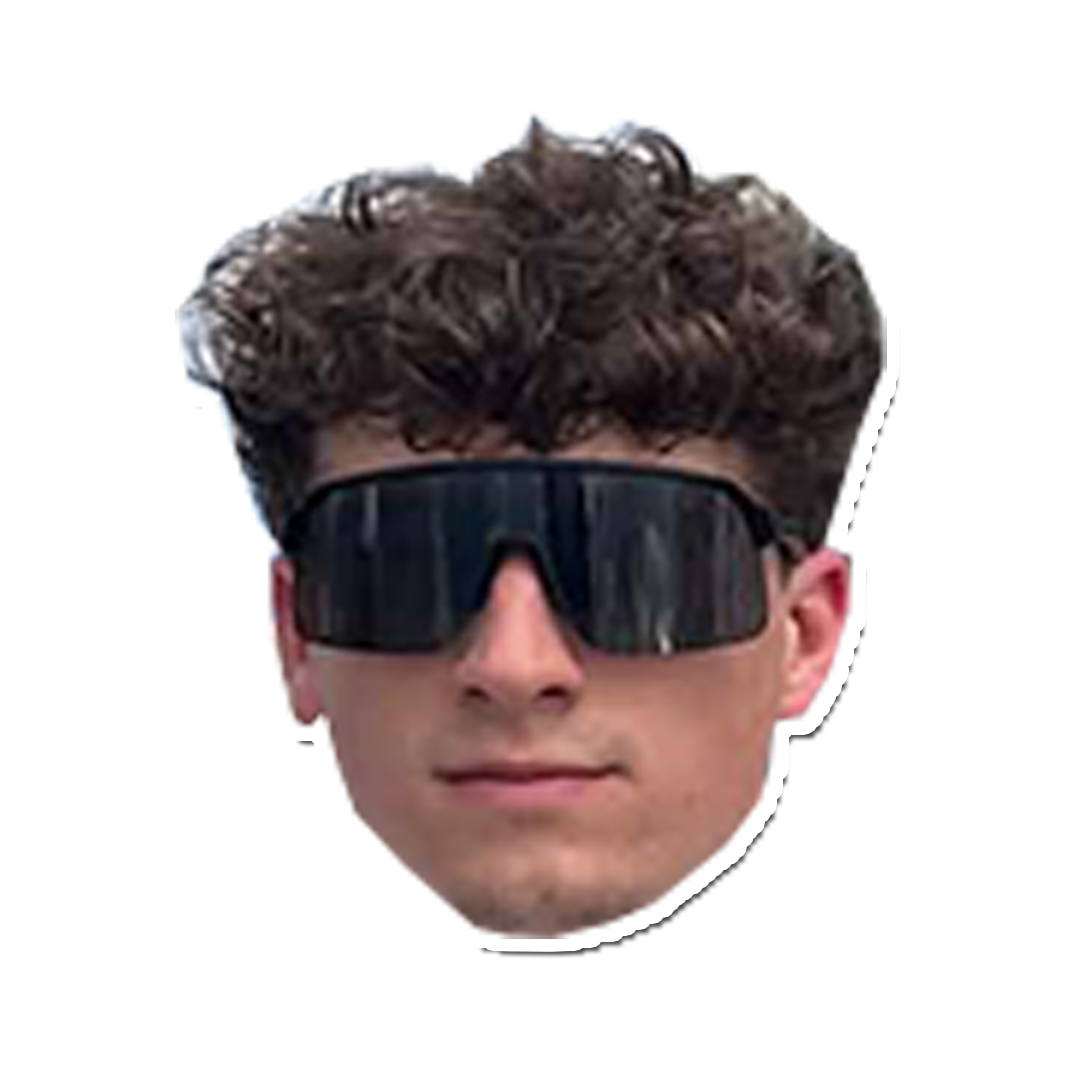
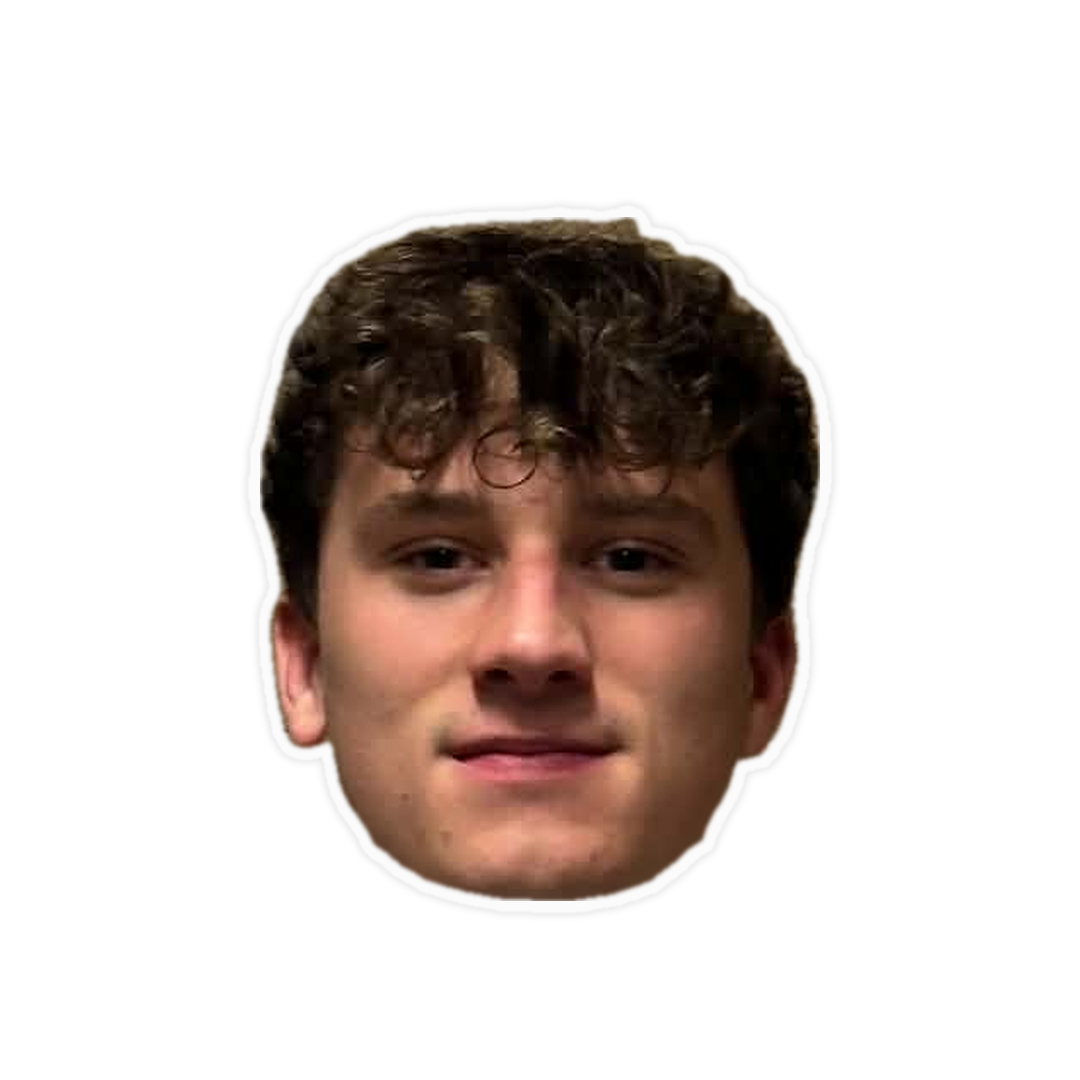
Zwevend hoofd, seizoenen bij matchdetails, 3 hoofden in Hooghouden
- Elke 20 seconden zweeft een willekeurig hoofd over het scherm; vangen toont een statistiek
- Spelerskaart: beste match, uitslagen en laatste matchen vermelden over welke seizoenen het gaat
- Seizoen 1: duidelijke melding dat er geen matchdetails zijn
- Hooghouden: 3 willekeurige hoofden
- Nieuwe hoofden en bijgewerkte cijfers

diff --git a/data/stats.js b/data/stats.js
@@ -1,2 +1,2 @@
 // Automatisch gemaakt door tools/build-data.js. Niet met de hand aanpassen.
-window.AVP_DATA = {"current":3,"seasons":[1,2,3],"lastMatch":{"s":3,"md":7,"fase":"Heen","datum":"2026-11-12","tegen":"Ternat Thunder","gv":0,"gt":5},"matches":[{"s":1,"md":1,"fase":"Heen","datum":"","tegen":"Beneboys","gv":5,"gt":1},{"s":1,"md":2,"fase":"Heen","datum":"","tegen":"Wasdaveuiet","gv":1,"gt":4},{"s":1,"md":3,"fase":"Heen","datum":"","tegen":"Toren d'Ivannof","gv":2,"gt":6},{"s":1,"md":4,"fase":"Heen","datum":"","tegen":"Heeren van Liedekercke","gv":3,"gt":1},{"s":1,"md":5,"fase":"Heen","datum":"","tegen":"Speedy's","gv":1,"gt":2},{"s":1,"md":6,"fase":"Heen","datum":"","tegen":"Cuba Libre","gv":1,"gt":7},{"s":1,"md":7,"fase":"Heen","datum":"","tegen":"Boca Seniors","gv":4,"gt":2},{"s":1,"md":8,"fase":"Heen","datum":"","tegen":"Catenaccio","gv":4,"gt":4},{"s":1,"md":9,"fase":"Heen","datum":"","tegen":"Racing Ramones","gv":2,"gt":3},{"s":1,"md":10,"fase":"Heen","datum":"","tegen":"UZ Ballers B","gv":7,"gt":4},{"s":1,"md":11,"fase":"Heen","datum":"","tegen":"Ternat Thunder","gv":7,"gt":8},{"s":1,"md":12,"fase":"Heen","datum":"","tegen":"Stamdio","gv":5,"gt":5},{"s":1,"md":13,"fase":"Heen","datum":"","tegen":"Foobar","gv":15,"gt":2},{"s":1,"md":14,"fase":"Terug","datum":"","tegen":"Catenaccio","gv":3,"gt":3},{"s":1,"md":15,"fase":"Terug","datum":"","tegen":"Beneboys","gv":6,"gt":2},{"s":1,"md":16,"fase":"Terug","datum":"","tegen":"Wasdaveuiet","gv":6,"gt":6},{"s":1,"md":17,"fase":"Terug","datum":"","tegen":"Toren d'Ivannof","gv":0,"gt":5},{"s":1,"md":18,"fase":"Terug","datum":"","tegen":"Heeren van Liedekercke","gv":6,"gt":5},{"s":1,"md":19,"fase":"Terug","datum":"","tegen":"Speedy's","gv":0,"gt":3},{"s":1,"md":20,"fase":"Terug","datum":"","tegen":"Cuba Libre","gv":4,"gt":6},{"s":1,"md":21,"fase":"Terug","datum":"","tegen":"Boca Seniors","gv":3,"gt":4},{"s":1,"md":22,"fase":"Terug","datum":"","tegen":"Racing Ramones","gv":5,"gt":3},{"s":1,"md":23,"fase":"Terug","datum":"","tegen":"UZ Ballers B","gv":4,"gt":8},{"s":1,"md":24,"fase":"Terug","datum":"","tegen":"Ternat Thunder","gv":18,"gt":5},{"s":1,"md":25,"fase":"Terug","datum":"","tegen":"Stamdio","gv":5,"gt":4},{"s":1,"md":26,"fase":"Terug","datum":"","tegen":"Foobar","gv":22,"gt":0},{"s":2,"md":1,"fase":"Heen","datum":"","tegen":"Racing Ramones","gv":4,"gt":3},{"s":2,"md":2,"fase":"Heen","datum":"","tegen":"Cuba Libre","gv":6,"gt":3},{"s":2,"md":3,"fase":"Heen","datum":"","tegen":"Ternat Thunder","gv":3,"gt":2},{"s":2,"md":4,"fase":"Heen","datum":"","tegen":"Foobar","gv":8,"gt":1},{"s":2,"md":5,"fase":"Heen","datum":"","tegen":"Catenaccio","gv":9,"gt":1},{"s":2,"md":6,"fase":"Heen","datum":"","tegen":"Boca Seniors","gv":4,"gt":3},{"s":2,"md":7,"fase":"Heen","datum":"","tegen":"Stamdio","gv":2,"gt":4},{"s":2,"md":8,"fase":"Heen","datum":"","tegen":"UZ Ballers B","gv":3,"gt":5},{"s":2,"md":9,"fase":"Heen","datum":"","tegen":"Heeren van Liedekercke","gv":3,"gt":4},{"s":2,"md":10,"fase":"Heen","datum":"","tegen":"Beneboys","gv":6,"gt":2},{"s":2,"md":11,"fase":"Heen","datum":"","tegen":"Fusion","gv":4,"gt":6},{"s":2,"md":12,"fase":"Terug","datum":"","tegen":"Racing Ramones","gv":9,"gt":2},{"s":2,"md":13,"fase":"Terug","datum":"","tegen":"Cuba Libre","gv":10,"gt":6},{"s":2,"md":14,"fase":"Terug","datum":"","tegen":"Ternat Thunder","gv":2,"gt":9},{"s":2,"md":15,"fase":"Terug","datum":"","tegen":"Foobar","gv":12,"gt":0},{"s":2,"md":16,"fase":"Terug","datum":"","tegen":"Catenaccio","gv":3,"gt":4},{"s":2,"md":17,"fase":"Terug","datum":"","tegen":"Boca Seniors","gv":6,"gt":8},{"s":2,"md":18,"fase":"Terug","datum":"","tegen":"Speedy's","gv":9,"gt":2},{"s":2,"md":19,"fase":"Inhaal","datum":"","tegen":"Speedy's","gv":5,"gt":2},{"s":2,"md":20,"fase":"Inhaal","datum":"","tegen":"UZ Ballers B","gv":5,"gt":5},{"s":2,"md":21,"fase":"Inhaal","datum":"","tegen":"Heeren van Liedekercke","gv":21,"gt":2},{"s":2,"md":22,"fase":"Inhaal","datum":"","tegen":"Beneboys","gv":7,"gt":4},{"s":2,"md":23,"fase":"Inhaal","datum":"","tegen":"Fusion","gv":10,"gt":5},{"s":3,"md":1,"fase":"Heen","datum":"2026-09-07","tegen":"Racing Ramones","gv":4,"gt":5},{"s":3,"md":2,"fase":"Heen","datum":"2026-09-17","tegen":"FC Mitraillette","gv":4,"gt":11},{"s":3,"md":3,"fase":"Heen","datum":"2026-10-01","tegen":"Heeren van Liedekercke","gv":14,"gt":3},{"s":3,"md":4,"fase":"Heen","datum":"2026-10-15","tegen":"Cuba Libre","gv":4,"gt":3},{"s":3,"md":5,"fase":"Heen","datum":"2026-10-22","tegen":"Boca Seniors","gv":1,"gt":4},{"s":3,"md":6,"fase":"Heen","datum":"2026-10-29","tegen":"UZ Ballers B","gv":1,"gt":1},{"s":3,"md":7,"fase":"Heen","datum":"2026-11-12","tegen":"Ternat Thunder","gv":0,"gt":5}],"players":[{"name":"Branko M","face":null,"photo":null,"active":false,"seasons":{"2":{"c":1,"g":0,"a":1}},"games":[]},{"name":"Casper S","face":null,"photo":null,"active":true,"seasons":{"1":{"c":6,"g":3,"a":4},"2":{"c":7,"g":4,"a":3},"3":{"c":1,"g":0,"a":1}},"games":[[2,3,1,0],[2,9,2,0],[2,10,0,0],[2,13,1,1],[2,14,0,1],[2,16,0,0],[2,22,0,1],[3,2,0,1]]},{"name":"Elias VdB","face":"koppen/Elias%20VdB.png","photo":null,"active":true,"seasons":{"1":{"c":5,"g":15,"a":11},"2":{"c":2,"g":5,"a":0}},"games":[[2,19,2,0],[2,20,3,0]]},{"name":"Jasper VdP","face":"koppen/Jasper%20VdP.png","photo":null,"active":true,"seasons":{"1":{"c":17,"g":4,"a":3},"2":{"c":14,"g":11,"a":7},"3":{"c":3,"g":0,"a":0}},"games":[[2,1,0,2],[2,2,1,0],[2,4,1,1],[2,5,1,0],[2,6,2,0],[2,8,0,2],[2,9,0,0],[2,10,0,0],[2,11,1,1],[2,12,1,0],[2,16,1,0],[2,19,0,0],[2,20,1,0],[2,21,2,1],[3,1,0,0],[3,3,0,0],[3,7,0,0]]},{"name":"Jelle O","face":null,"photo":null,"active":true,"seasons":{"2":{"c":1,"g":1,"a":0}},"games":[[2,4,1,0]]},{"name":"Jitse M","face":null,"photo":null,"active":true,"seasons":{"1":{"c":3,"g":6,"a":1},"2":{"c":5,"g":11,"a":6}},"games":[[2,5,3,1],[2,7,0,1],[2,12,2,1],[2,15,5,2],[2,21,1,1]]},{"name":"Jorne C","face":"koppen/Jorne%20C.png","photo":null,"active":true,"seasons":{"1":{"c":11,"g":13,"a":8},"2":{"c":12,"g":24,"a":14},"3":{"c":4,"g":5,"a":1}},"games":[[2,1,1,0],[2,2,2,2],[2,5,2,0],[2,7,2,0],[2,10,1,0],[2,13,1,2],[2,14,1,0],[2,15,2,1],[2,17,2,2],[2,18,3,1],[2,21,6,5],[2,22,1,1],[3,2,1,1],[3,3,4,0],[3,5,0,0],[3,7,0,0]]},{"name":"Keane VI","face":"koppen/Keane%20VI.png","photo":"fotos/Keane%20VI.jpg","active":true,"seasons":{"1":{"c":21,"g":17,"a":15},"2":{"c":15,"g":19,"a":15},"3":{"c":5,"g":7,"a":3}},"games":[[2,1,2,0],[2,2,3,2],[2,3,1,0],[2,4,2,2],[2,5,2,2],[2,7,0,0],[2,8,1,0],[2,9,0,1],[2,11,2,0],[2,13,1,1],[2,18,2,0],[2,19,0,2],[2,20,1,0],[2,22,1,3],[2,23,1,2],[3,1,1,1],[3,2,2,0],[3,3,2,0],[3,4,2,1],[3,5,0,1]]},{"name":"Maarten M","face":"koppen/Maarten%20M.png","photo":null,"active":true,"seasons":{"1":{"c":4,"g":3,"a":1},"2":{"c":3,"g":0,"a":1},"3":{"c":3,"g":1,"a":0}},"games":[[2,1,0,0],[2,3,0,0],[2,6,0,1],[3,1,0,0],[3,4,1,0],[3,5,0,0]]},{"name":"Maarten V","face":null,"photo":null,"active":true,"seasons":{"1":{"c":12,"g":2,"a":2},"2":{"c":6,"g":9,"a":3},"3":{"c":1,"g":1,"a":0}},"games":[[2,3,0,0],[2,5,0,2],[2,7,0,0],[2,10,0,0],[2,21,6,0],[2,23,3,1],[3,2,1,0]]},{"name":"Mauro S","face":null,"photo":null,"active":true,"seasons":{"2":{"c":1,"g":3,"a":0}},"games":[[2,12,3,0]]},{"name":"Milan V","face":"koppen/Milan%20V.png","photo":null,"active":true,"seasons":{"1":{"c":11,"g":21,"a":15},"2":{"c":6,"g":10,"a":6},"3":{"c":1,"g":1,"a":2}},"games":[[2,6,1,1],[2,10,4,0],[2,19,1,1],[2,20,0,2],[2,22,3,1],[2,23,1,1],[3,1,1,2]]},{"name":"Nico VdB","face":null,"photo":null,"active":true,"seasons":{"1":{"c":1,"g":1,"a":1},"2":{"c":1,"g":0,"a":0},"3":{"c":2,"g":0,"a":0}},"games":[[2,20,0,0],[3,6,0,0],[3,7,0,0]]},{"name":"Quinten H","face":null,"photo":null,"active":true,"seasons":{"1":{"c":7,"g":5,"a":1},"2":{"c":3,"g":5,"a":1},"3":{"c":3,"g":0,"a":0}},"games":[[2,19,2,0],[2,22,1,0],[2,23,2,1],[3,2,0,0],[3,5,0,0],[3,6,0,0]]},{"name":"Rein VD","face":null,"photo":"fotos/Rein%20VD.jpg","active":true,"seasons":{"1":{"c":19,"g":8,"a":6},"2":{"c":20,"g":11,"a":14},"3":{"c":5,"g":1,"a":1}},"games":[[2,1,0,0],[2,2,0,0],[2,3,1,0],[2,4,2,1],[2,5,0,0],[2,6,0,0],[2,7,0,1],[2,8,0,0],[2,9,1,0],[2,11,0,0],[2,12,0,1],[2,13,0,1],[2,14,0,0],[2,15,0,2],[2,16,1,0],[2,17,0,1],[2,18,2,0],[2,20,0,0],[2,21,3,5],[2,23,1,2],[3,1,1,1],[3,2,0,0],[3,4,0,0],[3,5,0,0],[3,7,0,0]]},{"name":"Robbe G","face":"koppen/Robbe%20G.png","photo":null,"active":true,"seasons":{"1":{"c":24,"g":14,"a":14},"2":{"c":21,"g":14,"a":14},"3":{"c":6,"g":1,"a":0}},"games":[[2,1,1,0],[2,2,0,1],[2,3,0,0],[2,4,1,1],[2,5,1,1],[2,6,1,0],[2,7,0,0],[2,8,2,0],[2,9,0,0],[2,10,0,1],[2,11,0,1],[2,13,3,2],[2,14,1,1],[2,15,2,3],[2,16,0,0],[2,17,0,0],[2,18,0,0],[2,20,0,0],[2,21,2,1],[2,22,0,0],[2,23,0,2],[3,1,0,0],[3,3,1,0],[3,4,0,0],[3,5,0,0],[3,6,0,0],[3,7,0,0]]},{"name":"Robbe VL","face":"koppen/Robbe%20VL.png","photo":null,"active":true,"seasons":{"1":{"c":23,"g":20,"a":6},"2":{"c":11,"g":3,"a":3},"3":{"c":5,"g":4,"a":0}},"games":[[2,1,0,0],[2,8,0,0],[2,9,0,0],[2,10,1,1],[2,11,0,1],[2,13,2,1],[2,14,0,0],[2,15,0,0],[2,16,0,0],[2,17,0,0],[2,19,0,0],[3,3,3,0],[3,4,0,0],[3,5,1,0],[3,6,0,0],[3,7,0,0]]},{"name":"Robbe VS","face":null,"photo":null,"active":true,"seasons":{"2":{"c":2,"g":4,"a":1}},"games":[[2,12,1,1],[2,17,3,0]]},{"name":"Ryan B","face":"koppen/Ryan%20B.png","photo":null,"active":true,"seasons":{"1":{"c":22,"g":2,"a":2},"2":{"c":7,"g":2,"a":1},"3":{"c":3,"g":0,"a":0}},"games":[[2,2,0,0],[2,3,0,0],[2,4,0,0],[2,6,0,0],[2,7,0,0],[2,15,2,1],[2,16,0,0],[3,2,0,0],[3,4,0,0],[3,7,0,0]]},{"name":"Sem DV","face":null,"photo":null,"active":true,"seasons":{"2":{"c":1,"g":1,"a":3}},"games":[[2,12,1,3]]},{"name":"Senne M","face":null,"photo":null,"active":true,"seasons":{"3":{"c":1,"g":1,"a":0}},"games":[[3,3,1,0]]},{"name":"Stephen B","face":"koppen/Stephen%20B.png","photo":null,"active":true,"seasons":{"1":{"c":8,"g":0,"a":0},"2":{"c":5,"g":1,"a":1},"3":{"c":3,"g":1,"a":0}},"games":[[2,2,0,0],[2,8,0,0],[2,10,0,1],[2,13,1,0],[2,19,0,0],[3,1,1,0],[3,2,0,0],[3,5,0,0]]},{"name":"Tim VD","face":null,"photo":null,"active":true,"seasons":{"2":{"c":4,"g":2,"a":1}},"games":[[2,11,0,0],[2,12,1,0],[2,14,0,0],[2,17,1,1]]},{"name":"Tom B","face":"koppen/Tom%20B.png","photo":null,"active":true,"seasons":{"1":{"c":6,"g":0,"a":1},"2":{"c":13,"g":1,"a":1},"3":{"c":1,"g":0,"a":0}},"games":[[2,1,0,0],[2,2,0,0],[2,4,0,0],[2,6,0,0],[2,8,0,0],[2,10,0,0],[2,11,0,0],[2,12,1,1],[2,15,0,0],[2,16,0,0],[2,18,0,0],[2,19,0,0],[2,22,0,0],[3,1,0,0]]},{"name":"Tom VD","face":"koppen/Tom%20VD.png","photo":null,"active":true,"seasons":{"1":{"c":2,"g":0,"a":0},"2":{"c":8,"g":6,"a":5},"3":{"c":2,"g":0,"a":1}},"games":[[2,6,0,0],[2,9,0,1],[2,11,1,1],[2,13,0,1],[2,15,1,1],[2,18,2,0],[2,22,0,0],[2,23,2,1],[3,4,0,1],[3,6,0,0]]},{"name":"Victor G","face":"koppen/Victor%20G.png","photo":null,"active":true,"seasons":{"2":{"c":7,"g":3,"a":5},"3":{"c":4,"g":5,"a":0}},"games":[[2,4,1,1],[2,7,0,0],[2,8,0,1],[2,14,0,0],[2,16,1,1],[2,18,0,1],[2,21,1,1],[3,3,3,0],[3,4,1,0],[3,6,1,0],[3,7,0,0]]},{"name":"Warre VR","face":"koppen/Warre%20VR.png","photo":null,"active":true,"seasons":{"1":{"c":11,"g":1,"a":6},"2":{"c":5,"g":0,"a":1}},"games":[[2,3,0,0],[2,5,0,1],[2,9,0,0],[2,20,0,0],[2,23,0,0]]}]};
+window.AVP_DATA = {"current":3,"seasons":[1,2,3],"lastMatch":{"s":3,"md":7,"fase":"Heen","datum":"2026-11-12","tegen":"Ternat Thunder","gv":0,"gt":5},"matches":[{"s":1,"md":1,"fase":"Heen","datum":"","tegen":"Beneboys","gv":5,"gt":1},{"s":1,"md":2,"fase":"Heen","datum":"","tegen":"Wasdaveuiet","gv":1,"gt":4},{"s":1,"md":3,"fase":"Heen","datum":"","tegen":"Toren d'Ivannof","gv":2,"gt":6},{"s":1,"md":4,"fase":"Heen","datum":"","tegen":"Heeren van Liedekercke","gv":3,"gt":1},{"s":1,"md":5,"fase":"Heen","datum":"","tegen":"Speedy's","gv":1,"gt":2},{"s":1,"md":6,"fase":"Heen","datum":"","tegen":"Cuba Libre","gv":1,"gt":7},{"s":1,"md":7,"fase":"Heen","datum":"","tegen":"Boca Seniors","gv":4,"gt":2},{"s":1,"md":8,"fase":"Heen","datum":"","tegen":"Catenaccio","gv":4,"gt":4},{"s":1,"md":9,"fase":"Heen","datum":"","tegen":"Racing Ramones","gv":2,"gt":3},{"s":1,"md":10,"fase":"Heen","datum":"","tegen":"UZ Ballers B","gv":7,"gt":4},{"s":1,"md":11,"fase":"Heen","datum":"","tegen":"Ternat Thunder","gv":7,"gt":8},{"s":1,"md":12,"fase":"Heen","datum":"","tegen":"Stamdio","gv":5,"gt":5},{"s":1,"md":13,"fase":"Heen","datum":"","tegen":"Foobar","gv":15,"gt":2},{"s":1,"md":14,"fase":"Terug","datum":"","tegen":"Catenaccio","gv":3,"gt":3},{"s":1,"md":15,"fase":"Terug","datum":"","tegen":"Beneboys","gv":6,"gt":2},{"s":1,"md":16,"fase":"Terug","datum":"","tegen":"Wasdaveuiet","gv":6,"gt":6},{"s":1,"md":17,"fase":"Terug","datum":"","tegen":"Toren d'Ivannof","gv":0,"gt":5},{"s":1,"md":18,"fase":"Terug","datum":"","tegen":"Heeren van Liedekercke","gv":6,"gt":5},{"s":1,"md":19,"fase":"Terug","datum":"","tegen":"Speedy's","gv":0,"gt":3},{"s":1,"md":20,"fase":"Terug","datum":"","tegen":"Cuba Libre","gv":4,"gt":6},{"s":1,"md":21,"fase":"Terug","datum":"","tegen":"Boca Seniors","gv":3,"gt":4},{"s":1,"md":22,"fase":"Terug","datum":"","tegen":"Racing Ramones","gv":5,"gt":3},{"s":1,"md":23,"fase":"Terug","datum":"","tegen":"UZ Ballers B","gv":4,"gt":8},{"s":1,"md":24,"fase":"Terug","datum":"","tegen":"Ternat Thunder","gv":18,"gt":5},{"s":1,"md":25,"fase":"Terug","datum":"","tegen":"Stamdio","gv":5,"gt":4},{"s":1,"md":26,"fase":"Terug","datum":"","tegen":"Foobar","gv":22,"gt":0},{"s":2,"md":1,"fase":"Heen","datum":"","tegen":"Racing Ramones","gv":4,"gt":3},{"s":2,"md":2,"fase":"Heen","datum":"","tegen":"Cuba Libre","gv":6,"gt":3},{"s":2,"md":3,"fase":"Heen","datum":"","tegen":"Ternat Thunder","gv":3,"gt":2},{"s":2,"md":4,"fase":"Heen","datum":"","tegen":"Foobar","gv":8,"gt":1},{"s":2,"md":5,"fase":"Heen","datum":"","tegen":"Catenaccio","gv":9,"gt":1},{"s":2,"md":6,"fase":"Heen","datum":"","tegen":"Boca Seniors","gv":4,"gt":3},{"s":2,"md":7,"fase":"Heen","datum":"","tegen":"Stamdio","gv":2,"gt":4},{"s":2,"md":8,"fase":"Heen","datum":"","tegen":"UZ Ballers B","gv":3,"gt":5},{"s":2,"md":9,"fase":"Heen","datum":"","tegen":"Heeren van Liedekercke","gv":3,"gt":4},{"s":2,"md":10,"fase":"Heen","datum":"","tegen":"Beneboys","gv":6,"gt":2},{"s":2,"md":11,"fase":"Heen","datum":"","tegen":"Fusion","gv":4,"gt":6},{"s":2,"md":12,"fase":"Terug","datum":"","tegen":"Racing Ramones","gv":9,"gt":2},{"s":2,"md":13,"fase":"Terug","datum":"","tegen":"Cuba Libre","gv":10,"gt":6},{"s":2,"md":14,"fase":"Terug","datum":"","tegen":"Ternat Thunder","gv":2,"gt":9},{"s":2,"md":15,"fase":"Terug","datum":"","tegen":"Foobar","gv":12,"gt":0},{"s":2,"md":16,"fase":"Terug","datum":"","tegen":"Catenaccio","gv":3,"gt":4},{"s":2,"md":17,"fase":"Terug","datum":"","tegen":"Boca Seniors","gv":6,"gt":8},{"s":2,"md":18,"fase":"Terug","datum":"","tegen":"Speedy's","gv":9,"gt":2},{"s":2,"md":19,"fase":"Inhaal","datum":"","tegen":"Speedy's","gv":5,"gt":2},{"s":2,"md":20,"fase":"Inhaal","datum":"","tegen":"UZ Ballers B","gv":5,"gt":5},{"s":2,"md":21,"fase":"Inhaal","datum":"","tegen":"Heeren van Liedekercke","gv":21,"gt":2},{"s":2,"md":22,"fase":"Inhaal","datum":"","tegen":"Beneboys","gv":7,"gt":4},{"s":2,"md":23,"fase":"Inhaal","datum":"","tegen":"Fusion","gv":10,"gt":5},{"s":3,"md":1,"fase":"Heen","datum":"2026-09-07","tegen":"Racing Ramones","gv":4,"gt":5},{"s":3,"md":2,"fase":"Heen","datum":"2026-09-17","tegen":"FC Mitraillette","gv":4,"gt":11},{"s":3,"md":3,"fase":"Heen","datum":"2026-10-01","tegen":"Heeren van Liedekercke","gv":14,"gt":3},{"s":3,"md":4,"fase":"Heen","datum":"2026-10-15","tegen":"Cuba Libre","gv":4,"gt":3},{"s":3,"md":5,"fase":"Heen","datum":"2026-10-22","tegen":"Boca Seniors","gv":1,"gt":4},{"s":3,"md":6,"fase":"Heen","datum":"2026-10-29","tegen":"UZ Ballers B","gv":1,"gt":1},{"s":3,"md":7,"fase":"Heen","datum":"2026-11-12","tegen":"Ternat Thunder","gv":0,"gt":5}],"players":[{"name":"Branko M","face":null,"photo":null,"active":false,"seasons":{"2":{"c":1,"g":0,"a":1}},"games":[]},{"name":"Casper S","face":"koppen/Casper%20S.png","photo":null,"active":true,"seasons":{"1":{"c":6,"g":3,"a":4},"2":{"c":7,"g":4,"a":3},"3":{"c":1,"g":0,"a":1}},"games":[[2,3,1,0],[2,9,2,0],[2,10,0,0],[2,13,1,1],[2,14,0,1],[2,16,0,0],[2,22,0,1],[3,2,0,1]]},{"name":"Elias VdB","face":"koppen/Elias%20VdB.png","photo":null,"active":true,"seasons":{"1":{"c":5,"g":15,"a":11},"2":{"c":2,"g":5,"a":0}},"games":[[2,19,2,0],[2,20,3,0]]},{"name":"Jasper VdP","face":"koppen/Jasper%20VdP.png","photo":null,"active":true,"seasons":{"1":{"c":17,"g":4,"a":3},"2":{"c":14,"g":11,"a":7},"3":{"c":3,"g":0,"a":0}},"games":[[2,1,0,2],[2,2,1,0],[2,4,1,1],[2,5,1,0],[2,6,2,0],[2,8,0,2],[2,9,0,0],[2,10,0,0],[2,11,1,1],[2,12,1,0],[2,16,1,0],[2,19,0,0],[2,20,1,0],[2,21,2,1],[3,1,0,0],[3,3,0,0],[3,7,0,0]]},{"name":"Jelle O","face":null,"photo":null,"active":true,"seasons":{"2":{"c":1,"g":1,"a":0}},"games":[[2,4,1,0]]},{"name":"Jitse M","face":null,"photo":null,"active":true,"seasons":{"1":{"c":3,"g":6,"a":1},"2":{"c":5,"g":11,"a":6}},"games":[[2,5,3,1],[2,7,0,1],[2,12,2,1],[2,15,5,2],[2,21,1,1]]},{"name":"Jorne C","face":"koppen/Jorne%20C.png","photo":null,"active":true,"seasons":{"1":{"c":11,"g":13,"a":8},"2":{"c":12,"g":24,"a":14},"3":{"c":4,"g":5,"a":1}},"games":[[2,1,1,0],[2,2,2,2],[2,5,2,0],[2,7,2,0],[2,10,1,0],[2,13,1,2],[2,14,1,0],[2,15,2,1],[2,17,2,2],[2,18,3,1],[2,21,6,5],[2,22,1,1],[3,2,1,1],[3,3,4,0],[3,5,0,0],[3,7,0,0]]},{"name":"Keane VI","face":"koppen/Keane%20VI.png","photo":"fotos/Keane%20VI.jpg","active":true,"seasons":{"1":{"c":21,"g":17,"a":15},"2":{"c":15,"g":19,"a":15},"3":{"c":5,"g":7,"a":3}},"games":[[2,1,2,0],[2,2,3,2],[2,3,1,0],[2,4,2,2],[2,5,2,2],[2,7,0,0],[2,8,1,0],[2,9,0,1],[2,11,2,0],[2,13,1,1],[2,18,2,0],[2,19,0,2],[2,20,1,0],[2,22,1,3],[2,23,1,2],[3,1,1,1],[3,2,2,0],[3,3,2,0],[3,4,2,1],[3,5,0,1]]},{"name":"Maarten M","face":"koppen/Maarten%20M.png","photo":null,"active":true,"seasons":{"1":{"c":4,"g":3,"a":1},"2":{"c":3,"g":0,"a":1},"3":{"c":3,"g":1,"a":0}},"games":[[2,1,0,0],[2,3,0,0],[2,6,0,1],[3,1,0,0],[3,4,1,0],[3,5,0,0]]},{"name":"Maarten V","face":null,"photo":null,"active":true,"seasons":{"1":{"c":12,"g":2,"a":2},"2":{"c":6,"g":9,"a":3},"3":{"c":1,"g":1,"a":0}},"games":[[2,3,0,0],[2,5,0,2],[2,7,0,0],[2,10,0,0],[2,21,6,0],[2,23,3,1],[3,2,1,0]]},{"name":"Mauro S","face":null,"photo":null,"active":true,"seasons":{"2":{"c":1,"g":3,"a":0}},"games":[[2,12,3,0]]},{"name":"Milan V","face":"koppen/Milan%20V.png","photo":null,"active":true,"seasons":{"1":{"c":11,"g":21,"a":15},"2":{"c":6,"g":10,"a":6},"3":{"c":1,"g":1,"a":2}},"games":[[2,6,1,1],[2,10,4,0],[2,19,1,1],[2,20,0,2],[2,22,3,1],[2,23,1,1],[3,1,1,2]]},{"name":"Nico VdB","face":null,"photo":null,"active":true,"seasons":{"1":{"c":1,"g":1,"a":1},"2":{"c":1,"g":0,"a":0},"3":{"c":2,"g":0,"a":0}},"games":[[2,20,0,0],[3,6,0,0],[3,7,0,0]]},{"name":"Quinten H","face":"koppen/Quinten%20H.png","photo":null,"active":true,"seasons":{"1":{"c":7,"g":5,"a":1},"2":{"c":3,"g":5,"a":1},"3":{"c":3,"g":0,"a":0}},"games":[[2,19,2,0],[2,22,1,0],[2,23,2,1],[3,2,0,0],[3,5,0,0],[3,6,0,0]]},{"name":"Rein VD","face":"koppen/Rein%20VD.png","photo":"fotos/Rein%20VD.jpg","active":true,"seasons":{"1":{"c":19,"g":8,"a":6},"2":{"c":20,"g":11,"a":14},"3":{"c":5,"g":1,"a":1}},"games":[[2,1,0,0],[2,2,0,0],[2,3,1,0],[2,4,2,1],[2,5,0,0],[2,6,0,0],[2,7,0,1],[2,8,0,0],[2,9,1,0],[2,11,0,0],[2,12,0,1],[2,13,0,1],[2,14,0,0],[2,15,0,2],[2,16,1,0],[2,17,0,1],[2,18,2,0],[2,20,0,0],[2,21,3,5],[2,23,1,2],[3,1,1,1],[3,2,0,0],[3,4,0,0],[3,5,0,0],[3,7,0,0]]},{"name":"Robbe G","face":"koppen/Robbe%20G.png","photo":null,"active":true,"seasons":{"1":{"c":24,"g":14,"a":14},"2":{"c":21,"g":14,"a":14},"3":{"c":6,"g":1,"a":0}},"games":[[2,1,1,0],[2,2,0,1],[2,3,0,0],[2,4,1,1],[2,5,1,1],[2,6,1,0],[2,7,0,0],[2,8,2,0],[2,9,0,0],[2,10,0,1],[2,11,0,1],[2,13,3,2],[2,14,1,1],[2,15,2,3],[2,16,0,0],[2,17,0,0],[2,18,0,0],[2,20,0,0],[2,21,2,1],[2,22,0,0],[2,23,0,2],[3,1,0,0],[3,3,1,0],[3,4,0,0],[3,5,0,0],[3,6,0,0],[3,7,0,0]]},{"name":"Robbe VL","face":"koppen/Robbe%20VL.png","photo":null,"active":true,"seasons":{"1":{"c":23,"g":20,"a":6},"2":{"c":11,"g":3,"a":3},"3":{"c":5,"g":4,"a":0}},"games":[[2,1,0,0],[2,8,0,0],[2,9,0,0],[2,10,1,1],[2,11,0,1],[2,13,2,1],[2,14,0,0],[2,15,0,0],[2,16,0,0],[2,17,0,0],[2,19,0,0],[3,3,3,0],[3,4,0,0],[3,5,1,0],[3,6,0,0],[3,7,0,0]]},{"name":"Robbe VS","face":null,"photo":null,"active":true,"seasons":{"2":{"c":2,"g":4,"a":1}},"games":[[2,12,1,1],[2,17,3,0]]},{"name":"Ryan B","face":"koppen/Ryan%20B.png","photo":null,"active":true,"seasons":{"1":{"c":22,"g":2,"a":2},"2":{"c":7,"g":2,"a":1},"3":{"c":3,"g":0,"a":0}},"games":[[2,2,0,0],[2,3,0,0],[2,4,0,0],[2,6,0,0],[2,7,0,0],[2,15,2,1],[2,16,0,0],[3,2,0,0],[3,4,0,0],[3,7,0,0]]},{"name":"Sem DV","face":null,"photo":null,"active":true,"seasons":{"2":{"c":1,"g":1,"a":3}},"games":[[2,12,1,3]]},{"name":"Senne M","face":null,"photo":null,"active":true,"seasons":{"3":{"c":1,"g":1,"a":0}},"games":[[3,3,1,0]]},{"name":"Stephen B","face":"koppen/Stephen%20B.png","photo":null,"active":true,"seasons":{"1":{"c":8,"g":0,"a":0},"2":{"c":5,"g":1,"a":1},"3":{"c":3,"g":1,"a":0}},"games":[[2,2,0,0],[2,8,0,0],[2,10,0,1],[2,13,1,0],[2,19,0,0],[3,1,1,0],[3,2,0,0],[3,5,0,0]]},{"name":"Tim VD","face":null,"photo":null,"active":true,"seasons":{"2":{"c":4,"g":2,"a":1}},"games":[[2,11,0,0],[2,12,1,0],[2,14,0,0],[2,17,1,1]]},{"name":"Tom B","face":"koppen/Tom%20B.png","photo":null,"active":true,"seasons":{"1":{"c":6,"g":0,"a":1},"2":{"c":13,"g":1,"a":1},"3":{"c":1,"g":0,"a":0}},"games":[[2,1,0,0],[2,2,0,0],[2,4,0,0],[2,6,0,0],[2,8,0,0],[2,10,0,0],[2,11,0,0],[2,12,1,1],[2,15,0,0],[2,16,0,0],[2,18,0,0],[2,19,0,0],[2,22,0,0],[3,1,0,0]]},{"name":"Tom VD","face":"koppen/Tom%20VD.png","photo":null,"active":true,"seasons":{"1":{"c":2,"g":0,"a":0},"2":{"c":8,"g":6,"a":5},"3":{"c":2,"g":0,"a":1}},"games":[[2,6,0,0],[2,9,0,1],[2,11,1,1],[2,13,0,1],[2,15,1,1],[2,18,2,0],[2,22,0,0],[2,23,2,1],[3,4,0,1],[3,6,0,0]]},{"name":"Victor G","face":"koppen/Victor%20G.png","photo":null,"active":true,"seasons":{"2":{"c":7,"g":3,"a":5},"3":{"c":4,"g":5,"a":0}},"games":[[2,4,1,1],[2,7,0,0],[2,8,0,1],[2,14,0,0],[2,16,1,1],[2,18,0,1],[2,21,1,1],[3,3,3,0],[3,4,1,0],[3,6,1,0],[3,7,0,0]]},{"name":"Warre VR","face":"koppen/Warre%20VR.png","photo":null,"active":true,"seasons":{"1":{"c":11,"g":1,"a":6},"2":{"c":5,"g":0,"a":1}},"games":[[2,3,0,0],[2,5,0,1],[2,9,0,0],[2,20,0,0],[2,23,0,0]]}]};

diff --git a/app.js b/app.js
@@ -393,13 +393,26 @@
     const gaPerMatch = s.c ? fmt1(s.ga / s.c) : '–';
     const hasDetail = games.length > 0;
 
+    // Over welke seizoenen gaan de matchdetails? Van seizoen 1 bestaan enkel totalen.
+    const scopeSeasons = cardSeason === 'all'
+      ? [...detailSeasons].sort((a, b) => a - b)
+      : (detailSeasons.has(+cardSeason) ? [+cardSeason] : []);
+    const scopeList = scopeSeasons.map(sz => 'S' + sz);
+    const scopeText = scopeList.length > 1 ? scopeList.slice(0, -1).join(', ') + ' en ' + scopeList[scopeList.length - 1] : (scopeList[0] || '');
+    const scope = scopeText ? ` <span class="scope">(${scopeText})</span>` : '';
+
     const recordHtml = hasDetail
       ? `${rec.W} gewonnen, ${rec.G} gelijk, ${rec.V} verloren`
-      : 'Geen matchdetails voor deze periode';
+      : `Speelde geen match in ${scopeText}`;
     const bestHtml = best && best.g + best.a > 0
       ? `${best.g} ${best.g === 1 ? 'goal' : 'goals'} en ${best.a} ${best.a === 1 ? 'assist' : 'assists'} tegen ${esc(best.m.tegen)} (${best.m.gv}–${best.m.gt}), seizoen ${best.s}`
-      : (hasDetail ? 'Nog geen goal of assist in één match' : 'Onbekend');
+      : (hasDetail ? 'Nog geen goal of assist in één match' : `Speelde geen match in ${scopeText}`);
     const form = games.slice(-6).map(g => resBadge(resultOf(g.m))).join('');
+    const matchFacts = scopeList.length
+      ? `<div class="wide"><dt>Uitslagen als hij meespeelde${scope}</dt><dd>${recordHtml}</dd></div>
+          <div class="wide"><dt>Beste match${scope}</dt><dd>${bestHtml}</dd></div>
+          ${form ? `<div class="wide"><dt>Laatste matchen${scope}</dt><dd><span class="form">${form}</span></dd></div>` : ''}`
+      : `<div class="wide nodata"><dt class="sr-only">Matchdetails</dt><dd>Geen gedetailleerde wedstrijdgegevens van seizoen ${esc(cardSeason)} beschikbaar.</dd></div>`;
 
     const seasonRows = D.seasons.map(sz => {
       const v = pl.seasons[sz];
@@ -422,9 +435,7 @@
         <dl class="pcard__facts">
           <div><dt>Goals per match</dt><dd>${perMatch}</dd></div>
           <div><dt>G+A per match</dt><dd>${gaPerMatch}</dd></div>
-          <div class="wide"><dt>Uitslagen als hij meespeelde</dt><dd>${recordHtml}</dd></div>
-          <div class="wide"><dt>Beste match</dt><dd>${bestHtml}</dd></div>
-          ${form ? `<div class="wide"><dt>Laatste matchen</dt><dd><span class="form">${form}</span></dd></div>` : ''}
+          ${matchFacts}
         </dl>
         <h3 class="pcard__h">Per seizoen</h3>
         <table class="mini">
@@ -520,10 +531,10 @@
   (function keepyUppy() {
     const court = $('#court');
     const reeksEl = $('#k-reeks'), recordEl = $('#k-record');
-    // Elke keer vier willekeurige hoofden op het veld
+    // Elke keer drie willekeurige hoofden op het veld
     const players = D.players.filter(p => p.face)
       .map(p => [Math.random(), p]).sort((a, b) => a[0] - b[0]).map(x => x[1])
-      .slice(0, 4);
+      .slice(0, 3);
     if (!court || !players.length) return;
 
     const KEY = 'avp-hooghouden-record';
@@ -672,6 +683,127 @@
 
     let rt = 0;
     window.addEventListener('resize', () => { clearTimeout(rt); rt = setTimeout(() => { measure(); draw(); wake(); }, 150); });
+  })();
+
+  // ---------- Zwevend hoofd ----------
+  // Om de 20 seconden zweeft een willekeurig hoofd over het scherm.
+  // Tik of hou het vast: je ziet een korte statistiek van die speler, daarna verdwijnt het.
+  (function drifter() {
+    const faces = D.players.filter(p => p.face);
+    if (!faces.length || reduceMotion.matches) return;
+
+    const INTERVAL = 20000, FLIGHT = 10000, SHOW = 4200;
+    const el = document.createElement('button');
+    el.type = 'button';
+    el.className = 'drifter';
+    el.hidden = true;
+    el.innerHTML = '<img alt="" width="420" height="420" draggable="false">';
+    const img = el.querySelector('img');
+    const tip = document.createElement('div');
+    tip.className = 'drifter__tip';
+    tip.setAttribute('role', 'status');
+    tip.hidden = true;
+    document.body.append(el, tip);
+
+    let timer = 0, raf = 0, pl = null, lastName = null, path = null, pos = { x: 0, y: 0, r: 0 };
+
+    function schedule(ms) { clearTimeout(timer); timer = setTimeout(launch, ms); }
+
+    function pick(list) { return list[Math.floor(Math.random() * list.length)]; }
+
+    function statFor(p) {
+      const t = statsFor(p, 'all');
+      const out = [];
+      if (t.g > 0) out.push(`${t.g} ${t.g === 1 ? 'goal' : 'goals'} in ${t.c} ${t.c === 1 ? 'match' : 'matchen'} voor Avondpartij`);
+      else out.push('Jaagt nog op zijn eerste goal voor Avondpartij');
+      if (t.a > 0) out.push(`${t.a} ${t.a === 1 ? 'assist' : 'assists'} aller tijden`);
+      out.push(`${t.c} caps voor Avondpartij`);
+      if (t.c >= 3 && t.g > 0) out.push(`${fmt1(t.g / t.c)} goals per match`);
+      for (const [k, label] of [['g', 'topschutters'], ['a', 'assistgevers'], ['c', 'meeste caps']]) {
+        const r = ranked('all', k).find(x => x.pl.name === p.name);
+        if (r && r.rank <= 5 && r.s[k] > 0) out.push(`Nummer ${r.rank} van de ${label} aller tijden`);
+      }
+      const seasons = Object.entries(p.seasons).filter(([, v]) => v.c > 0);
+      if (seasons.length > 1) {
+        const [sz, v] = seasons.sort((a, b) => b[1].g - a[1].g)[0];
+        if (v.g > 0) out.push(`Beste seizoen: seizoen ${sz} met ${v.g} goals`);
+      }
+      const games = p.games.map(g => ({ s: g[0], g: g[2], a: g[3], m: MATCHES.get(matchKey(g[0], g[1])) })).filter(g => g.m);
+      const best = games.sort((x, y) => (y.g + y.a) - (x.g + x.a))[0];
+      if (best && best.g + best.a >= 2) out.push(`Beste match: ${best.g} goals en ${best.a} assists tegen ${best.m.tegen} (S${best.s})`);
+      const wins = games.filter(g => resultOf(g.m) === 'W').length;
+      const ds = [...detailSeasons].sort((a, b) => a - b).map(s => 'S' + s);
+      const dsText = ds.length > 1 ? ds.slice(0, -1).join(', ') + ' en ' + ds[ds.length - 1] : ds[0];
+      if (wins > 0) out.push(`${wins} keer gewonnen met hem op het veld (${dsText})`);
+      return pick(out);
+    }
+
+    function launch() {
+      if (document.hidden || dlg.open) { schedule(5000); return; }
+      const choices = faces.filter(p => p.name !== lastName);
+      pl = pick(choices.length ? choices : faces);
+      lastName = pl.name;
+      img.src = 'assets/' + pl.face;
+      el.setAttribute('aria-label', `Vang het hoofd van ${pl.name}`);
+
+      const vw = window.innerWidth, vh = window.innerHeight;
+      const size = vw < 640 ? 92 : 124;
+      el.style.setProperty('--s', size + 'px');
+      const dir = Math.random() < 0.5 ? 1 : -1;
+      path = {
+        start: performance.now(), dir, size,
+        x0: dir > 0 ? -size : vw + size, x1: dir > 0 ? vw + size : -size,
+        y: vh * (0.2 + Math.random() * 0.5),
+        bob: 22 + Math.random() * 18, phase: Math.random() * 6,
+      };
+      el.classList.remove('is-caught', 'is-gone');
+      el.hidden = false;
+      raf = requestAnimationFrame(fly);
+    }
+
+    function fly(now) {
+      const t = (now - path.start) / FLIGHT;
+      if (t >= 1) { el.hidden = true; schedule(INTERVAL); return; }
+      pos.x = path.x0 + (path.x1 - path.x0) * t;
+      pos.y = path.y + Math.sin(t * Math.PI * 3 + path.phase) * path.bob;
+      pos.r = Math.sin(t * Math.PI * 4 + path.phase) * 12 + path.dir * 6;
+      el.style.transform = `translate(${pos.x.toFixed(1)}px, ${pos.y.toFixed(1)}px) rotate(${pos.r.toFixed(1)}deg)`;
+      raf = requestAnimationFrame(fly);
+    }
+
+    function catchIt() {
+      if (el.hidden || el.classList.contains('is-caught')) return;
+      cancelAnimationFrame(raf);
+      el.classList.add('is-caught');
+      tip.innerHTML = `<strong>${esc(pl.name)}</strong><span>${esc(statFor(pl))}</span>`;
+      tip.hidden = false;
+      // ballon boven het hoofd, of eronder als er bovenaan geen plaats is
+      const w = tip.offsetWidth, h = tip.offsetHeight, half = path.size / 2;
+      const left = Math.min(Math.max(pos.x - w / 2, 12), window.innerWidth - w - 12);
+      const above = pos.y - half - h - 10;
+      tip.style.left = left + 'px';
+      tip.style.top = (above > 12 ? above : pos.y + half + 10) + 'px';
+      clearTimeout(timer);
+      timer = setTimeout(release, SHOW);
+    }
+
+    function release() {
+      tip.hidden = true;
+      el.classList.add('is-gone');
+      setTimeout(() => { el.hidden = true; el.classList.remove('is-caught', 'is-gone'); }, 350);
+      schedule(INTERVAL);
+    }
+
+    el.addEventListener('pointerdown', e => { e.preventDefault(); catchIt(); });
+    el.addEventListener('click', e => { if (e.detail === 0) catchIt(); });
+    tip.addEventListener('click', () => { clearTimeout(timer); release(); });
+    document.addEventListener('visibilitychange', () => {
+      if (document.hidden && !el.hidden && !el.classList.contains('is-caught')) {
+        cancelAnimationFrame(raf); el.hidden = true; schedule(INTERVAL);
+      }
+    });
+
+    schedule(12000);
   })();
 
   render();

diff --git a/styles.css b/styles.css
@@ -498,6 +498,35 @@ h1, h2, h3 { font-family: var(--display); line-height: .95; margin: 0; letter-sp
 .pcard__facts dd { margin: 0; font-family: var(--display); font-weight: 800; font-size: 24px; line-height: 1.1; }
 .pcard__facts .wide { grid-column: 1 / -1; }
 .pcard__facts .wide dd { font-family: var(--body); font-weight: 600; font-size: 16px; line-height: 1.4; }
+.pcard__facts .scope { color: var(--bronze-text); font-weight: 600; }
+.pcard__facts .nodata { background: transparent; border: 2px dashed #CFC9D0; }
+.pcard__facts .nodata dd { color: var(--mute); }
+
+/* ============ Zwevend hoofd ============ */
+.drifter {
+  position: fixed; left: 0; top: 0; z-index: 60;
+  width: var(--s, 124px); height: var(--s, 124px);
+  margin: calc(var(--s, 124px) / -2) 0 0 calc(var(--s, 124px) / -2);
+  padding: 0; border: 0; background: none; cursor: pointer;
+  touch-action: none; will-change: transform; border-radius: 50%;
+  -webkit-tap-highlight-color: transparent;
+}
+.drifter img { width: 100%; height: 100%; object-fit: contain; pointer-events: none; filter: drop-shadow(0 10px 12px rgba(31, 26, 32, .35)); transition: transform .3s var(--ease-spring); }
+.drifter:hover img { transform: scale(1.08); }
+.drifter.is-caught img { transform: scale(1.18); }
+.drifter.is-gone img { transform: scale(0); opacity: 0; transition: transform .3s ease-in, opacity .3s; }
+.drifter:focus-visible { outline: 3px solid var(--bronze); outline-offset: -8px; }
+.drifter__tip {
+  position: fixed; z-index: 61; max-width: min(300px, calc(100vw - 24px));
+  display: flex; flex-direction: column; gap: 2px;
+  background: var(--paper); color: var(--ink);
+  border: var(--b) solid var(--ink); border-radius: var(--r); box-shadow: 4px 4px 0 var(--gold);
+  padding: 10px 14px; font-size: 15px; line-height: 1.35; cursor: pointer;
+  animation: tipIn .3s var(--ease-spring);
+}
+.drifter__tip[hidden] { display: none; }
+.drifter__tip strong { font-family: var(--display); font-weight: 900; font-size: 22px; line-height: 1; }
+@keyframes tipIn { from { opacity: 0; transform: translateY(8px) scale(.96); } }
 
 .pcard__h { font-size: 22px; font-weight: 800; margin: 20px 0 8px; }
 .mini { width: 100%; border-collapse: collapse; font-size: 16px; }
